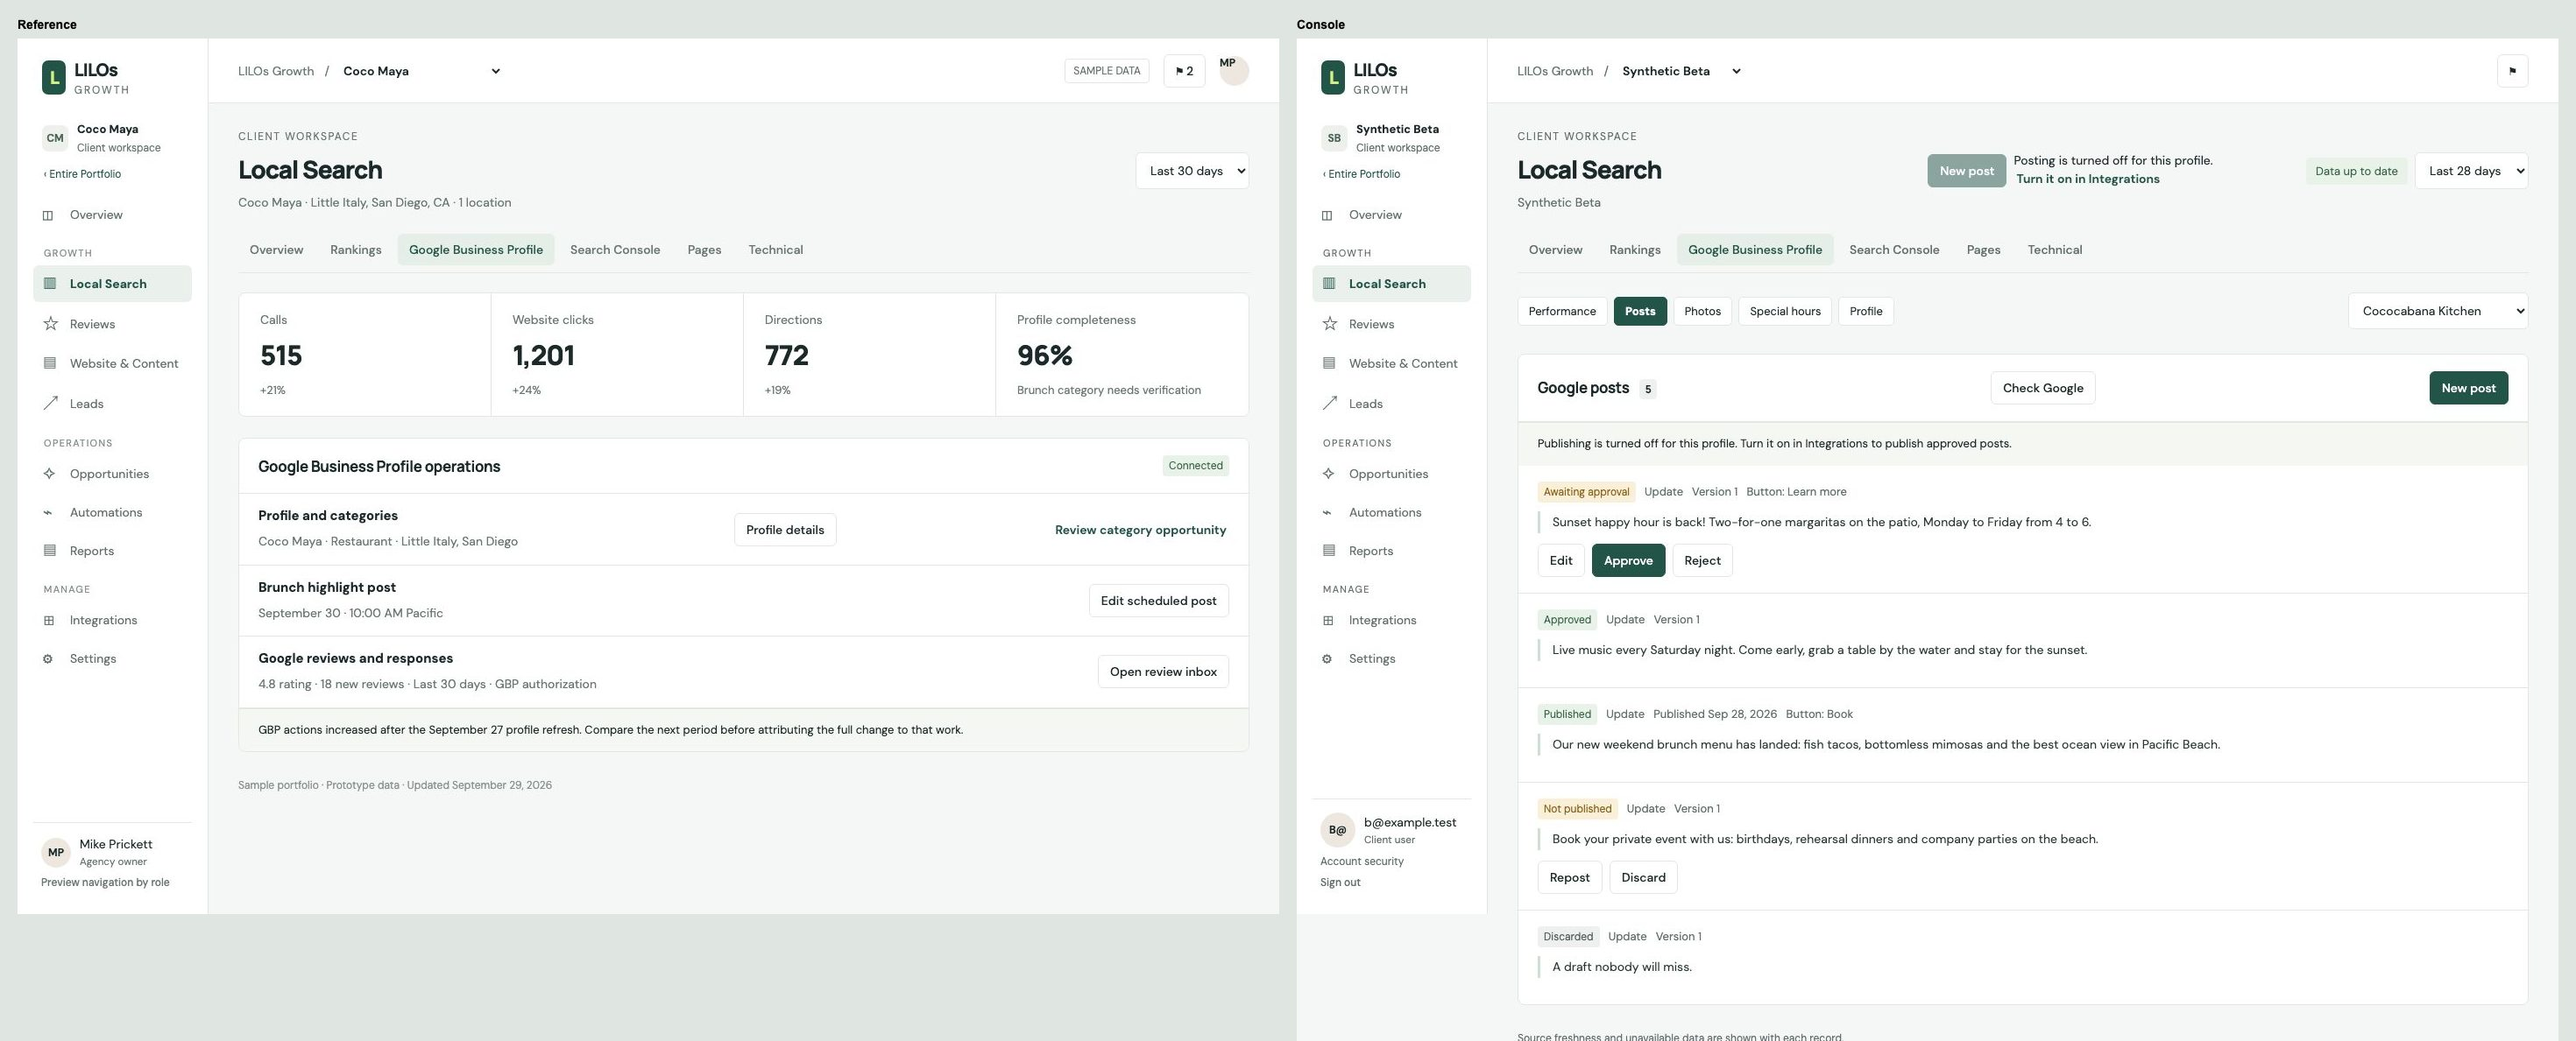
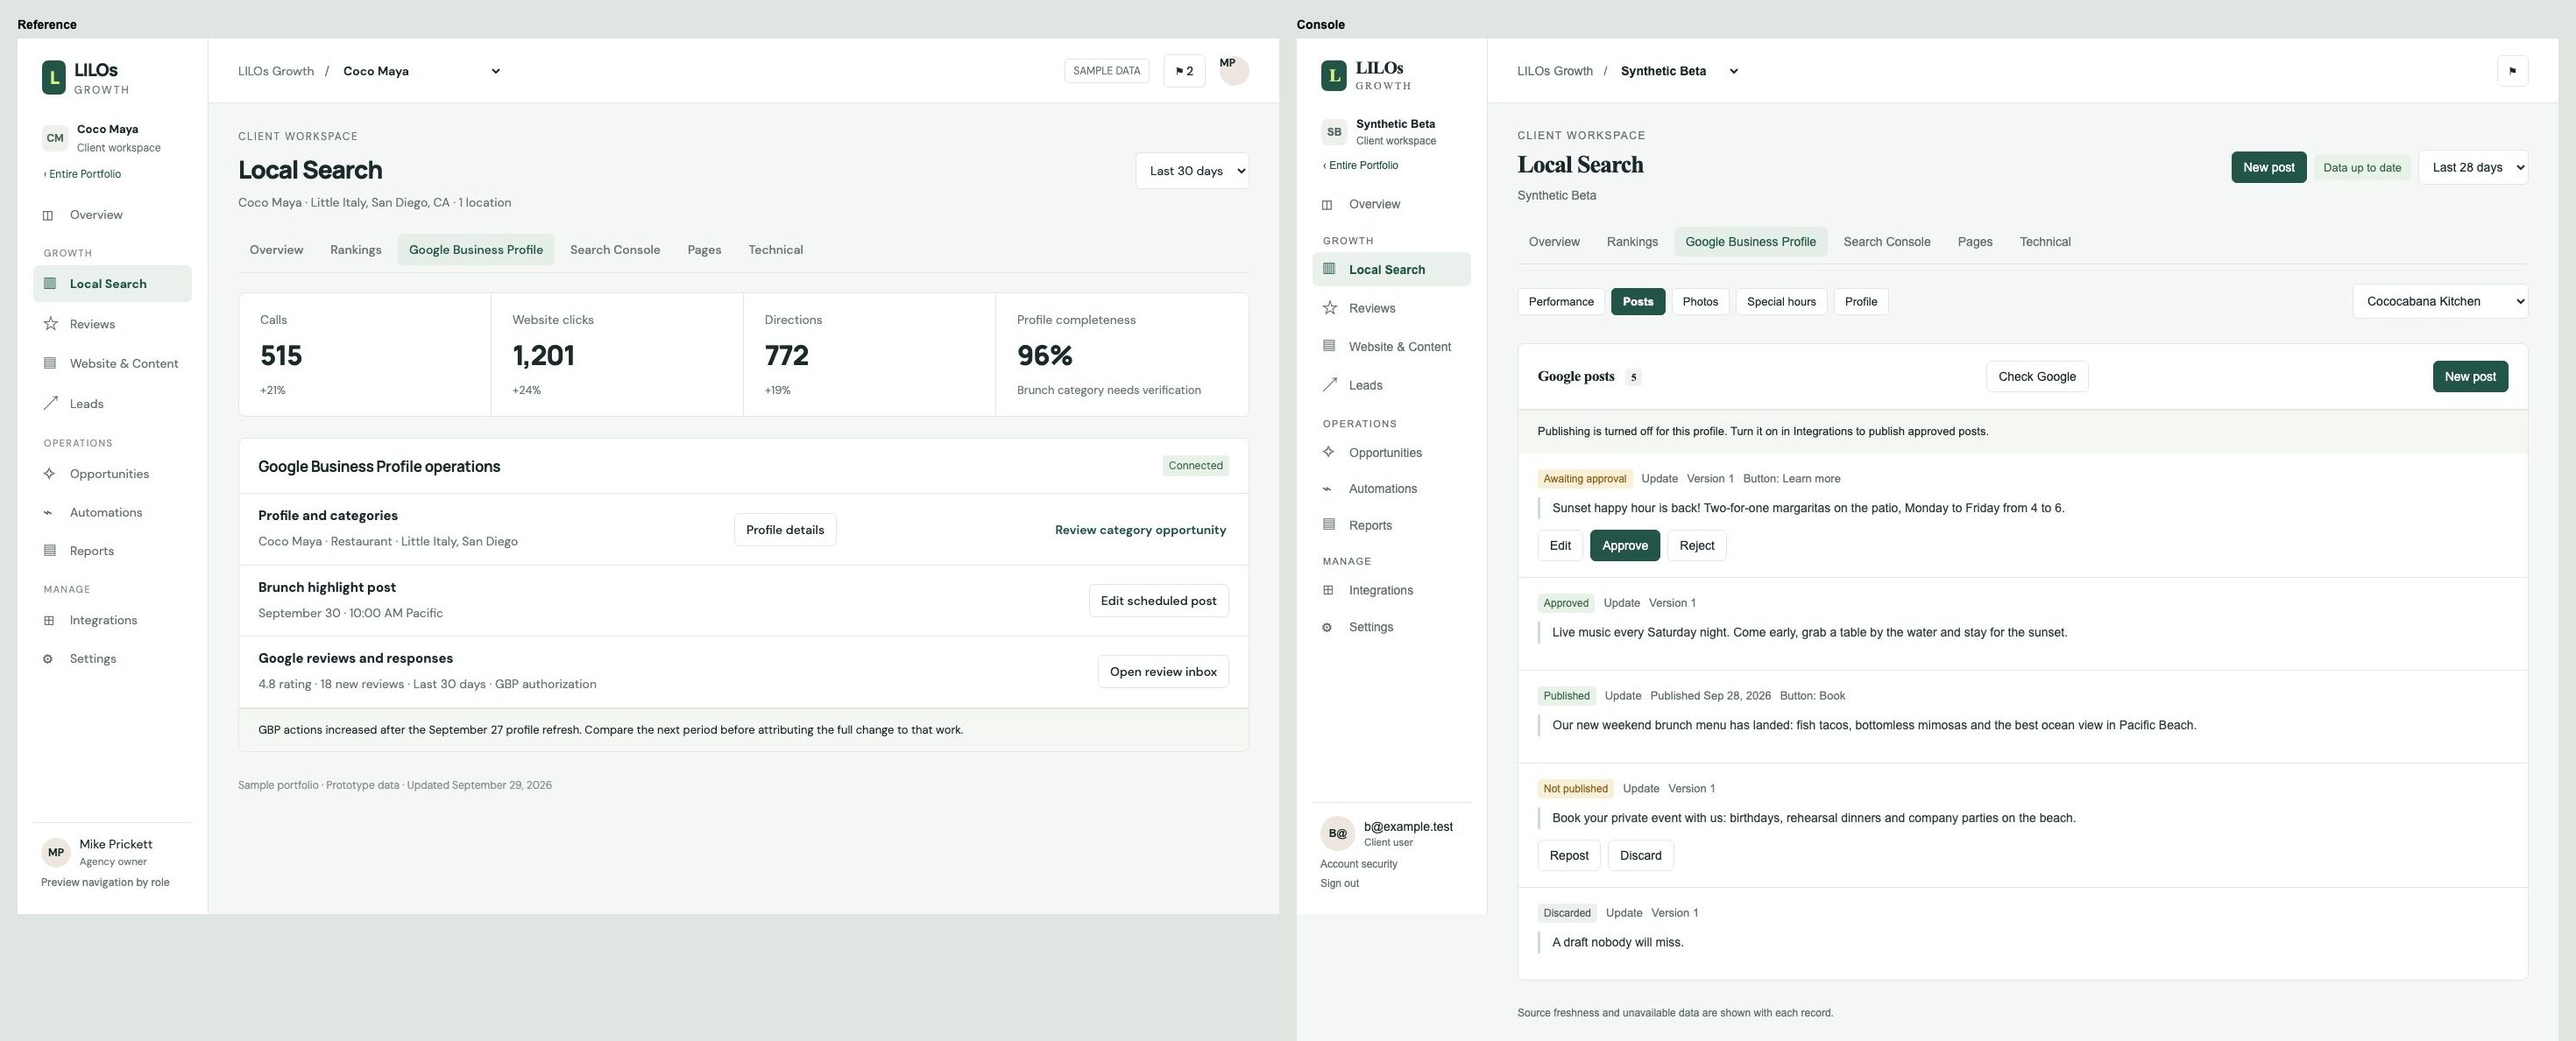
New post header: stay enabled when posting writes are off
Drafts for approval still work with writes off; only publishing is gated. Remove the writes_disabled state; the header button is disabled only with no connected profile or a role that cannot propose.

diff --git a/apps/console/tests/browser/step10d.spec.ts b/apps/console/tests/browser/step10d.spec.ts
@@ -51,7 +51,7 @@ test("on the default view New post leads straight to the dialog", async ({
   await expect(page.getByRole("dialog")).toContainText("Write a Google post");
   await expect(page).not.toHaveURL(/compose=/);
 });
-test("a profile with writes off shows a disabled button, the reason and the next step", async ({
+test("a profile with writes off keeps New post enabled and says only publishing is off", async ({
   page,
 }) => {
   await login(page, gbp);
@@ -59,11 +59,14 @@ test("a profile with writes off shows a disabled button, the reason and the next
     .getByLabel("Business Profile location")
     .selectOption({ label: "Cococabana Kitchen" });
   await expect(page).toHaveURL(/location=/);
+  await page.getByRole("link", { name: "Posts", exact: true }).click();
+  await expect(page.locator("main")).toContainText(
+    "Publishing is turned off for this profile",
+  );
   const button = header(page).getByRole("button", { name: "New post" });
-  await expect(button).toBeDisabled();
-  await expect(header(page)).toContainText("Posting is turned off");
-  await expect(
-    header(page).getByRole("link", { name: /Integrations/ }),
-  ).toBeVisible();
+  await expect(button).toBeEnabled();
+  await button.click();
+  await expect(page.getByRole("dialog")).toContainText("Write a Google post");
+  await page.keyboard.press("Escape");
   expect((await new AxeBuilder({ page }).analyze()).violations).toEqual([]);
 });

diff --git a/apps/console/src/lib/gbp-view.ts b/apps/console/src/lib/gbp-view.ts
@@ -646,14 +646,15 @@ export interface GbpTabData {
 
 /** What the "New post" button in the Local Search header does for the selected location. */
 export interface NewPostAction {
-  state: "ready" | "no_profile" | "writes_disabled" | "no_permission";
+  state: "ready" | "no_profile" | "no_permission";
   /** Why the button is disabled; null when it is ready. */
   reason: string | null;
   /** The next step the person can take; null when it is ready. */
   next: { label: string; href: string } | null;
 }
+/** Drafts for approval work with writes off; only publishing is gated, so writes never disable it. */
 export function newPostAction(
-  selected: Pick<GbpLocationOption, "writeEnabled"> | null,
+  selected: object | null,
   canPropose: boolean | null,
   integrationsHref: string,
 ): NewPostAction {
@@ -662,12 +663,6 @@ export function newPostAction(
       state: "no_profile",
       reason: "No Business Profile is connected yet.",
       next: { label: "Open Integrations", href: integrationsHref },
-    };
-  if (!selected.writeEnabled)
-    return {
-      state: "writes_disabled",
-      reason: "Posting is turned off for this profile.",
-      next: { label: "Turn it on in Integrations", href: integrationsHref },
     };
   if (canPropose === false)
     return {

diff --git a/apps/console/tests/unit/local-search-view.test.ts b/apps/console/tests/unit/local-search-view.test.ts
@@ -254,11 +254,10 @@ describe("New post button state", () => {
     expect(action.state).toBe("no_profile");
     expect(action.next?.href).toBe(href);
   });
-  it("explains disabled writes with the next action", () => {
+  it("stays ready when writes are off, because only publishing is gated", () => {
     const action = newPostAction({ writeEnabled: false }, true, href);
-    expect(action.state).toBe("writes_disabled");
-    expect(action.reason).toMatch(/turned off/);
-    expect(action.next?.label).toMatch(/Integrations/);
+    expect(action.state).toBe("ready");
+    expect(action.reason).toBeNull();
   });
   it("explains a role that cannot propose", () => {
     expect(newPostAction({ writeEnabled: true }, false, href).state).toBe(
